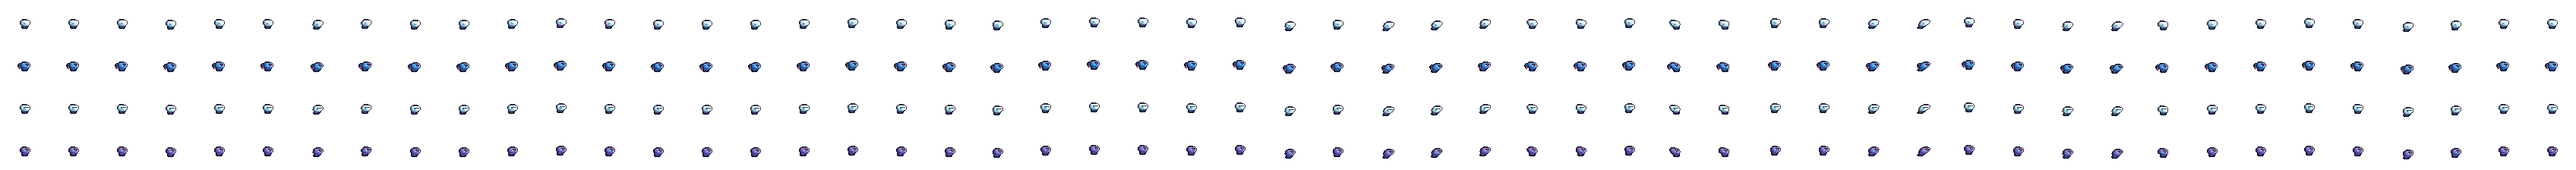
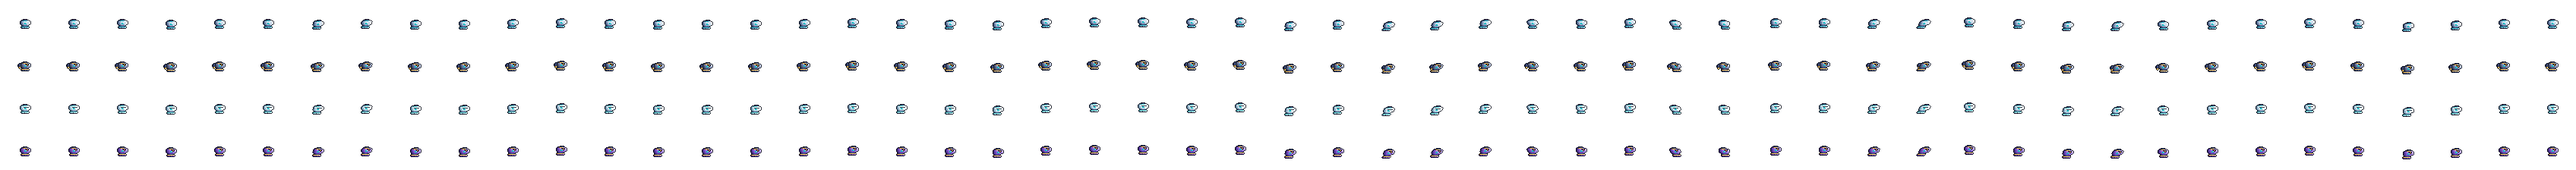
9단계: 캐릭터 디자인 다듬기(얼굴이 보이는 헬멧, 건틀릿·부츠 실루엣, 뱅가드 건메탈·금)
- IX: 앞이 솟은 헬멧과 금색 이마띠 아래 얼굴·두 눈, 턱 가드, 넓은 가슴판, 손목으로 넓어지는 건틀릿, 무릎까지 오는 부츠와 청록 발목 칼라
- 팔다리에 흩어지던 장식 띠를 걷고 칼라·벨트·부츠로 색을 모음, 대기 자세를 조금 넓게
- 뱅가드: 파랑·진홍 -> 건메탈·금(얼굴이 보이면서 원작 주인공과 겹치지 않게), UI 색도 금
- SABLE: 챙 아래 청록 눈과 아래 얼굴 마스크, 주황 손목 띠, 굵은 건틀릿·부츠
- ECHO: 이마에 올린 금색 고글과 보라 눈, 보라 손목 띠, 굵은 건틀릿·부츠
- HUD 얼굴 배지 자르기 위치를 새 머리에 맞춤, README

diff --git a/game/README.md b/game/README.md
@@ -75,13 +75,13 @@ ad-hoc 서명이라 빌드한 맥에서는 바로 열리지만, 다른 맥에서
 
 ## 그래픽 — 캐릭터 스프라이트 (X6식 32비트 스프라이트 방식)
 
-세 주인공과 이클립스는 `art/characters/<id>/`의 픽셀 아트 스프라이트 시트로 그립니다. 모두 오리지널 디자인이며, 록맨 X4~X6 시절 32비트 스프라이트의 **만드는 방식**(기본 몸 위에 아머 파츠를 겹치는 구조, 많은 동작 프레임, 색 외곽선, 스프라이트 이펙트)을 따릅니다. 원작 캐릭터의 모양은 따라 하지 않습니다.
+세 주인공과 이클립스는 `art/characters/<id>/`의 픽셀 아트 스프라이트 시트로 그립니다. 모두 오리지널 디자인이며, 록맨 X4~X6 시절 32비트 스프라이트의 **만드는 방식**(기본 몸 위에 아머 파츠를 겹치는 구조, 많은 동작 프레임, 색 외곽선, 스프라이트 이펙트)과 그 시절 액션 주인공의 **비율·색 나누기**(헬멧 아래 보이는 얼굴, 큰 건틀릿과 부츠, 어두운 슈트 관절과 두 색 장갑)를 따릅니다. 원작 캐릭터의 모양(헬멧 보석·귀 장식·배색 등)은 따라 하지 않습니다.
 
 | 캐릭터 | 디자인 |
 |---|---|
-| **IX** | 흰 프레임·청록 코어·금색 바이저. 아머마다 팔레트를 바꾸고 파츠를 덧붙임 — 뱅가드(파랑·진홍: 앞뿔, 가슴 갈매기 무늬, 등 추진기, 큰 어깨, 블록 버스터, 뒤꿈치 추진기), 에어로(흰색·민트: 날개 핀, 칼라 줄무늬, 등 날개, 지느러미 어깨, 통풍구 버스터, 발목 핀), 얼티밋(보라·금) |
-| **SABLE** | 강철색 검사, 주황 볏, 가면과 청록 눈 슬릿, 등에 멘 세이버 |
-| **ECHO** | 작은 청록 사수, 넓은 금색 바이저, 쌍 안테나, 보라 코어, 쌍권총, 소형체 |
+| **IX** | 흰 프레임·청록 코어. 앞이 솟은 헬멧 아래로 얼굴과 두 눈이 보이고, 금색 이마띠가 앞으로 뾰족하게 나옴. 청록 칼라·벨트·부츠 발목 칼라, 손목으로 넓어지는 건틀릿과 무릎까지 오는 부츠. 아머마다 팔레트를 바꾸고 파츠를 덧붙임 — 뱅가드(건메탈·금: 앞뿔, 가슴 갈매기 무늬, 등 추진기, 큰 어깨, 블록 버스터, 뒤꿈치 추진기), 에어로(흰색·민트: 날개 핀, 칼라 줄무늬, 등 날개, 지느러미 어깨, 통풍구 버스터, 발목 핀), 얼티밋(보라·금) |
+| **SABLE** | 강철색 검사, 주황 볏, 뾰족한 챙 아래 청록 눈과 아래 얼굴을 가린 마스크, 주황 손목 띠, 등에 멘 세이버 |
+| **ECHO** | 작은 청록 사수, 이마에 올린 금색 고글과 큰 보라 눈, 쌍 안테나, 보라 코어·손목 띠, 쌍권총, 소형체 |
 | **ECLIPSE** | IX의 어두운 쌍둥이(흑연색·자홍 볏), 리미터 해제·잔상용 줄 |
 
 - **손으로 찍은 파츠** (`tools/sprites/ix_kit.gd` 등): 헬멧·가슴·부츠(평발/발끝)·어깨·버스터는 팔레트 번호로 한 칸씩 찍은 그림이고, 뼈대는 위치만 잡고 관절 팔다리를 그 사이에 그립니다. 가슴은 기울기만큼 줄을 밀어(시어) 숙이고, 아머 종류는 팔레트 교체 + 덧붙임 조각입니다.
@@ -335,6 +335,12 @@ godot --path game -- --gallery=/tmp/rp_gallery
 - [x] **히트스톱**: 차지샷·약점 적중(0.04–0.06초), 잡몹 처치(0.035초), 피격(0.07초), 보스 격파(0.28초) 때 게임 시간이 잠깐 거의 멈춥니다. 실제 시간 기준이라 프레임 속도와 무관하고, 자동 실행(테스트·스크린샷)에서는 꺼집니다.
 - [x] **카메라 앞보기**: 바라보는 쪽으로 화면이 조금 앞서 갑니다(서 있을 때 10px, 달릴 때 18px, 대시 28px, 보스 방에서는 없음).
 - [x] **도전 기록** (GDD §2-3 "시간 제한은 선택 도전으로만"): 스테이지마다 최고 클리어 시간과 무피격 클리어(★)를 저장해 클리어 때 알려 주고, 스테이지 선택과 갤러리 RECORDS에 보여 줍니다. 옵션 → **기록 타이머**를 켜면 화면 오른쪽 아래에 시계가 나옵니다(기본 꺼짐, 시간 압박 없음).
+
+## 로드맵 9단계 (캐릭터 디자인 다듬기)
+
+- [x] **얼굴이 보이는 헬멧**: IX·SABLE·ECHO의 헬멧을 다시 그려 얼굴과 눈이 보이게 했습니다(IX는 앞이 솟은 헬멧과 금색 이마띠, SABLE은 챙과 아래 얼굴 마스크, ECHO는 이마에 올린 고글). HUD 얼굴 배지도 새 머리에 맞춰 자릅니다.
+- [x] **실루엣**: 손목으로 넓어지는 건틀릿, 무릎까지 오는 부츠, 넓은 가슴판, 조금 더 벌린 대기 자세. 팔다리에 흩어지던 장식 띠를 걷어 내고 칼라·벨트·부츠 발목 칼라로 색을 모았습니다.
+- [x] **뱅가드 아머 색**: 파랑·진홍 → 건메탈·금(HUD·캡슐·아머 랩 색 포함). 얼굴이 보이게 되면서 파란 아머가 원작 주인공과 겹쳐 보이지 않게 바꿨습니다.
 
 아직 없는 것: 실제 플레이로 맞춘 난이도·손맛 조정, 손으로 다듬은 픽셀 아트(손 보정 레이어로 받을 준비는 됨), 서명·공증된 배포용 앱.
 
